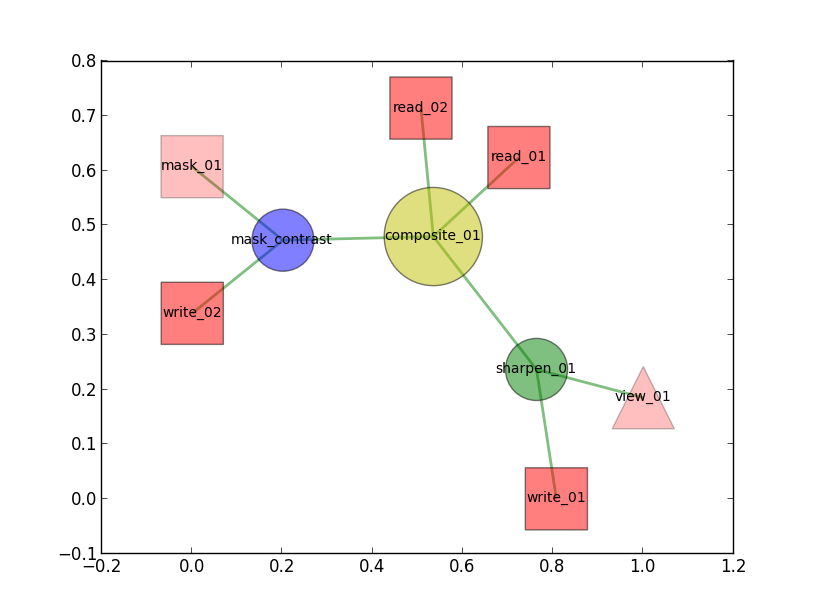
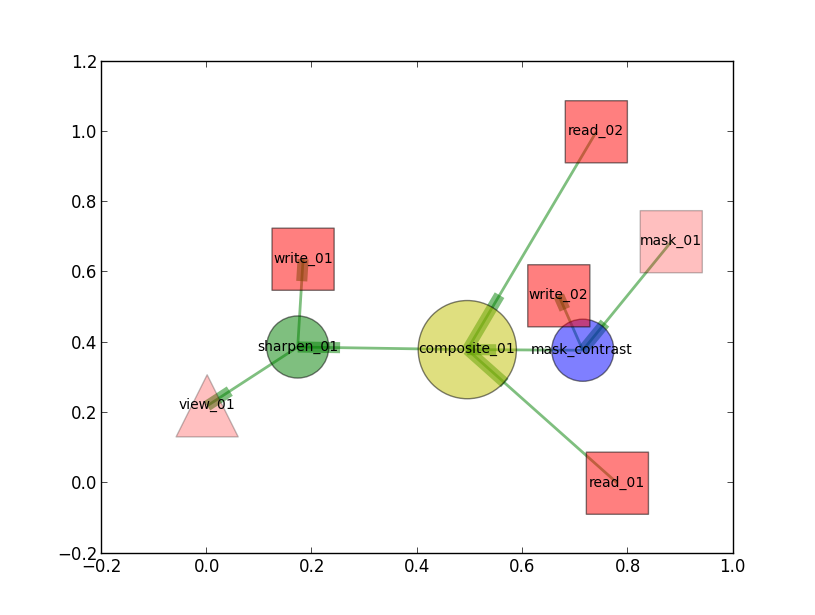
tune-up
edit readme, add arrow, direction graph

diff --git a/node_graph.py b/node_graph.py
@@ -4,16 +4,12 @@
 import matplotlib.pyplot as plt
 import json, sys
 import networkx as nx
-from node_lib import *
+from node_lib import graph
 
 print '\nNode image tools (Visualize node graph) v01a\n'
 
-# Read node file *.json
-#PATH='D://code//node_image_tools//scripts//'
-#file_name='contrast.json'
-
 try:
-    file_node=sys.argv[1]#PATH+file_name
+    file_node=sys.argv[1]
 except:
     print '->Error. No script'
     sys.exit (0)
@@ -22,79 +18,92 @@ with open(file_node) as jdf:
     data_io = json.load(jdf)
 
 # Bringing format node to object type and sort by ID
-GNode = graph
 sorted_names=sorted(data_io, key=lambda x : data_io[x]['id'])
 
-cached={} #create cached list
-Node_graph=nx.Graph()
+GNode = graph
+Node_graph=nx.DiGraph()
 
+# Creating a graph
 for _name in sorted_names:
-    node = GNode(data_io[_name]) #list[properties] to node.properties
+    node = GNode(data_io[_name])
 
     if (node.type=='read'):
         Node_graph.add_node(node.name)
 
     if (node.type=='cc'):
         Node_graph.add_node(node.name)
-        Node_graph.add_edge(node.name,node.link)
+        Node_graph.add_edge(node.link,node.name)
 
     if (node.type=='size'):
         Node_graph.add_node(node.name)
-        Node_graph.add_edge(node.name,node.link)
+        Node_graph.add_edge(node.link,node.name)
 
     if (node.type=='rotate'):
         Node_graph.add_node(node.name)
-        Node_graph.add_edge(node.name,node.link)
+        Node_graph.add_edge(node.link,node.name)
 
     if (node.type=='gradient'):
         Node_graph.add_node(node.name)
 
     if (node.type=='composite'):
         Node_graph.add_node(node.name)
-        Node_graph.add_edge(node.name,node.link_a)
-        Node_graph.add_edge(node.name,node.link_b)
+        Node_graph.add_edge(node.link_a,node.name)
+        Node_graph.add_edge(node.link_b,node.name)
         if (node.job=='mask'):
-            Node_graph.add_edge(node.name,node.mask)
+            Node_graph.add_edge(node.mask,node.name)
 
     if (node.type=='blur'):
         Node_graph.add_node(node.name)
-        Node_graph.add_edge(node.name,node.link)
+        Node_graph.add_edge(node.link,node.name)
 
     if (node.type=='sharpen'):
         Node_graph.add_node(node.name)
-        Node_graph.add_edge(node.name,node.link)
+        Node_graph.add_edge(node.link,node.name)
 
     if (node.type=='view'):
         Node_graph.add_node(node.name)
-        Node_graph.add_edge(node.name,node.link)
+        Node_graph.add_edge(node.link,node.name)
 
     if (node.type=='write'):
         Node_graph.add_node(node.name)
-        Node_graph.add_edge(node.name,node.link)
+        Node_graph.add_edge(node.link,node.name)
 
-pos=nx.spring_layout(Node_graph,pos=None,fixed=None,iterations=50,weight='weight',scale=1)
-
+pos=nx.spring_layout(Node_graph,iterations=30,weight=50,scale=1)
+# Draw graph
 for _graph in sorted_names:
     graph_ = GNode(data_io[_graph])
     if (graph_.type=='write' or graph_.type=='read'):
-        nx.draw_networkx_nodes(Node_graph,pos,node_size=2000,alpha=0.5,node_shape='s',node_color='r',nodelist=[graph_.name])
+        nx.draw_networkx_nodes(Node_graph,pos,node_size=2000,alpha=0.5,
+                               node_shape='s',node_color='r',nodelist=[graph_.name])
     if (graph_.type=='blur' or graph_.type=='sharpen'):
-        nx.draw_networkx_nodes(Node_graph,pos,node_size=2000,alpha=0.5,node_color='g',nodelist=[graph_.name])
+        nx.draw_networkx_nodes(Node_graph,pos,node_size=2000,alpha=0.5,
+                               node_color='g',nodelist=[graph_.name])
     if (graph_.type=='gradient'):
-        nx.draw_networkx_nodes(Node_graph,pos,node_size=2000,alpha=0.25,node_shape='s',node_color='r',nodelist=[graph_.name])
+        nx.draw_networkx_nodes(Node_graph,pos,node_size=2000,alpha=0.25,
+                               node_shape='s',node_color='r',nodelist=[graph_.name])
     if (graph_.type=='composite'):
-        nx.draw_networkx_nodes(Node_graph,pos,node_size=5000,alpha=0.5,node_color='y',nodelist=[graph_.name])
+        nx.draw_networkx_nodes(Node_graph,pos,node_size=5000,alpha=0.5,
+                               node_color='y',nodelist=[graph_.name])
     if (graph_.type=='cc'):
-        nx.draw_networkx_nodes(Node_graph,pos,node_size=2000,alpha=0.5,node_color='b',nodelist=[graph_.name])
+        nx.draw_networkx_nodes(Node_graph,pos,node_size=2000,alpha=0.5,
+                               node_color='b',nodelist=[graph_.name])
     if (graph_.type=='rotate' or graph_.type=='size'):
-        nx.draw_networkx_nodes(Node_graph,pos,node_size=2000,alpha=0.5,node_color='w',nodelist=[graph_.name])
+        nx.draw_networkx_nodes(Node_graph,pos,node_size=2000,alpha=0.3,
+                               node_color='w',nodelist=[graph_.name])
     if (graph_.type=='view'):
-        nx.draw_networkx_nodes(Node_graph,pos,node_size=2000,alpha=0.25,node_shape='^',node_color='r',nodelist=[graph_.name])
+        nx.draw_networkx_nodes(Node_graph,pos,node_size=2000,alpha=0.25,
+                               node_shape='^',node_color='r',nodelist=[graph_.name])
 
-
-nx.draw_networkx_labels(Node_graph,pos,font_size=10,font_family='sans-serif')
-nx.draw_networkx_edges(Node_graph,pos,width=2,alpha=0.5,edge_color='g',style='solid')
+nx.draw_networkx_labels(Node_graph,pos,
+                        font_size=10,font_family='sans-serif')
+nx.draw_networkx_edges(Node_graph,
+                       pos,width=2,
+                       alpha=0.5,
+                       edge_color='g',
+                       style='solid',
+                       arrows=True,
+                       )
 
 #plt.savefig("node_graph3.png")
 plt.show()
-print '\nScript:',file_name,'completed'
+print '\nVisualize graph:',file_node,'completed'

diff --git a/node_core.py b/node_core.py
@@ -1,3 +1,6 @@
+# Node image tools (core)
+# Copyright 2013 Victor Lavrentev
+
 import json, sys
 from node_lib import *
 from PIL import Image, ImageDraw, ImageFilter, ImageFont

diff --git a/README.md b/README.md
@@ -14,9 +14,9 @@ NetworkX: http://networkx.github.com/
 
 matplotlib: http://matplotlib.org/
 
-    execute application: node_core.py *.json
+    execute scripts : node_core.py *.json
 
-    graph visualization: node_graph.py *.json
+    render graph : node_graph.py *.json
 
 ![Screen shot 1](/shrimo/node_image_tools/raw/master/docs/figure_1.png)
 
